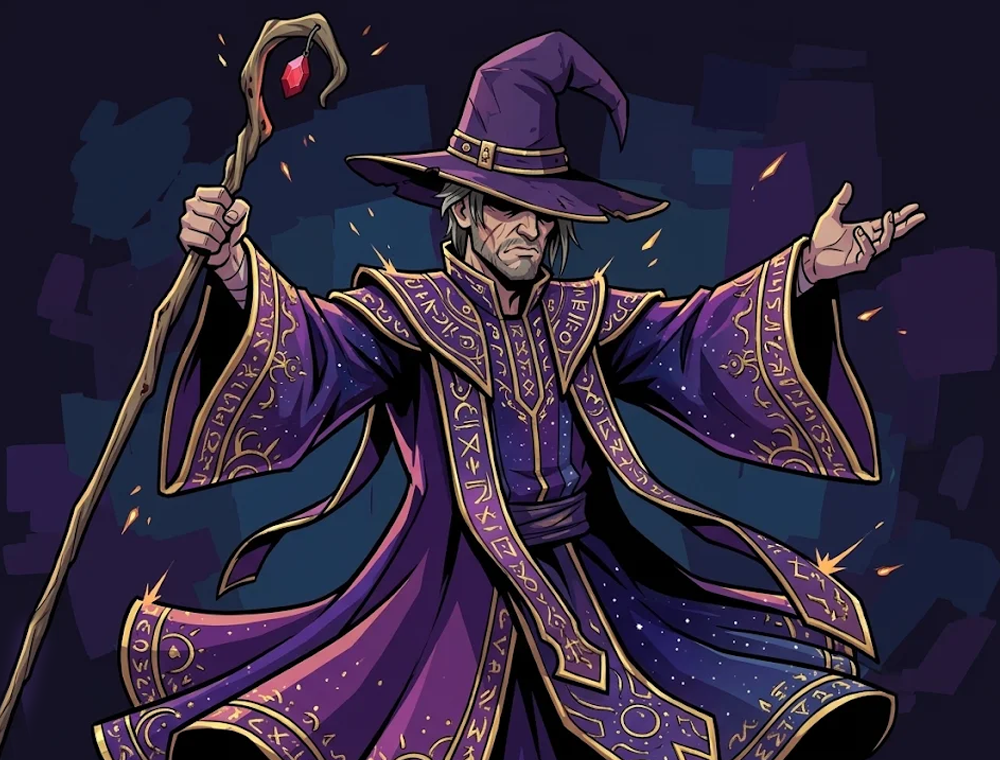
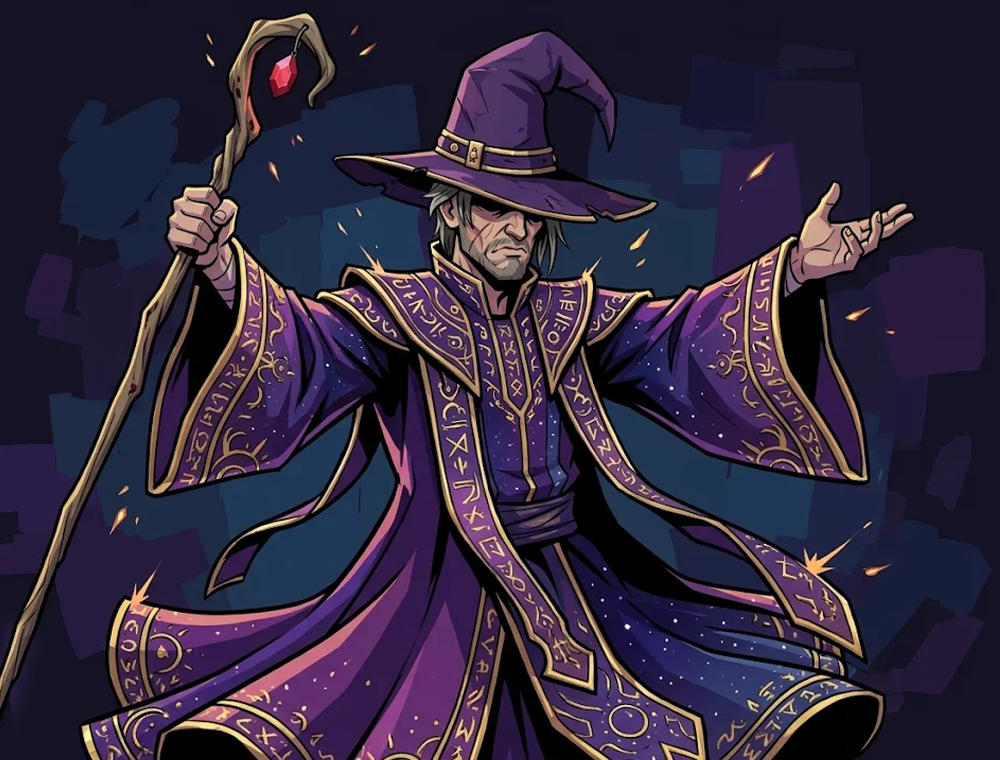
build: v0.5.5（dll 686145B2 / pck 94CCDF4D）
自动提交于 2026-11-15 14:23，共 13 项变更：
   M docs/local/ENG_FIXES.md
   M docs/local/GLOSSARY.md
   M docs/local/JPN_NAMES.md
   M docs/local/PROGRESS.md
   M docs/local/README.md
   M docs/local/ZHT_NAMES.md
   M src/Wizard/images/cards/MagusRobe.png
   M src/Wizard/localization/eng/cards.json
   M src/Wizard/localization/eng/powers.json
   M src/Wizard/localization/jpn/cards.json
   M src/Wizard/localization/jpn/powers.json
   M src/Wizard/localization/zht/cards.json
   M src/Wizard/localization/zht/powers.json

diff --git a/docs/local/PROGRESS.md b/docs/local/PROGRESS.md
@@ -5,8 +5,8 @@
 | 文件 | 状态 | 备注 |
 |---|---|---|
 | characters.json | ✅ 完成 | 15 条 |
-| powers.json | ✅ 完成 | 105 条；35 个能力 |
-| cards.json | ✅ 完成 | 165 条；79 张卡 |
+| powers.json | ✅ 完成 | 111 条；37 个能力 |
+| cards.json | ✅ 完成 | 169 条；81 张卡 |
 | relics.json | ✅ 完成 | 27 条；9 个遗物 |
 | potions.json | ✅ 完成 | 7 条 |
 | monsters.json | ✅ 完成 | 4 条 |
@@ -20,8 +20,8 @@
 | 文件 | 状态 | 备注 |
 |---|---|---|
 | characters.json | ✅ 完成 | 15 条 |
-| powers.json | ✅ 完成 | 105 条；35 个能力 |
-| cards.json | ✅ 完成 | 165 条；79 张卡 |
+| powers.json | ✅ 完成 | 111 条；37 个能力 |
+| cards.json | ✅ 完成 | 169 条；81 张卡 |
 | relics.json | ✅ 完成 | 27 条；9 个遗物 |
 | potions.json | ✅ 完成 | 7 条 |
 | monsters.json | ✅ 完成 | 4 条 |
@@ -37,6 +37,7 @@
 - [x] Aether 版本新增 8 卡 + 2 能力已补 zht/jpn
 - [x] Cauda Pavonis 版本新增 4 卡 + 3 能力已补 zht/jpn
 - [x] Eternal Echo / Mercury 版本新增 2 卡 + 1 能力已补 zht/jpn
+- [x] Temperance / Magus Robe 版本新增 2 卡 + 2 能力已补 zht/jpn
 - [ ] zht / jpn 全量自动 JSON 解析 / 标签逐 key diff（建议在 CI 或本地脚本跑）
 - [ ] zht / jpn 术语一致性抽查
 - [ ] 确认 `Burn` 能力改名「焚燒」后的文本一致性（zht）
@@ -57,3 +58,5 @@
 - Cauda Pavonis 版本新增：`Cauda Pavonis`、`Great Library`、`Quickening`、`Random debuff` 四卡，以及 `Cauda Pavonis` / `Cauda Pavonis+` / `Great Library` 三能力；zht/jpn 已补。
 - Eternal Echo / Mercury 版本新增：`Eternal Echo`、`Mercury` 两卡，以及 `Mercury` 能力；zht/jpn 已补。Swift 采用原版附魔译名：zht **迅捷** / jpn **迅速**。
 - `zhs` 的 `MERCURY_POWER.description` 补上 `[blue]{Swift}[/blue]` 标签，与 eng 的标签数对齐。
+- Temperance / Magus Robe 版本新增：`Temperance`、`Magus Robe` 两卡，以及对应两个能力；zht/jpn 已补。`Magus Robe` zht = 偉大法袍，jpn = マグス・ローブ。
+- `eng` 的 `MAGUS_ROBE` 卡面与 `MAGUS_ROBE_POWER` 描述/smart 补上 `[gold]debuff[/gold]`，与 zhs 的两处 gold 标签对齐。

diff --git a/docs/local/JPN_NAMES.md b/docs/local/JPN_NAMES.md
@@ -2,7 +2,7 @@
 
 > 初稿，供团队复核。原则：招式/专名用片假名，概念/状态用汉字；与原版撞名一律改名。
 
-## 卡牌（79）
+## 卡牌（81）
 
 | 英文 | jpn | 备注 |
 |---|---|---|
@@ -54,6 +54,7 @@
 | Lightning Fall | 落雷 | — |
 | Magical Index | 禁書目録 | — |
 | Magnum Opus | マグヌム・オプス | — |
+| Magus Robe | マグス・ローブ | — |
 | Mana Burst | マナバースト | — |
 | Mana Condense | マナ凝縮 | — |
 | Mana Drain | マナ吸収 | 避让 DRAIN_POWER「力の吸収」 |
@@ -80,13 +81,14 @@
 | Sunset | 落日 | — |
 | Superconduct | 超伝導 | — |
 | Telepathy | テレパシー | — |
+| Temperance | 節制 | — |
 | The Fourth Element | 第四元素 | — |
 | Tidy Up | 片付け | — |
 | Transmogrify | 変質 | 避让 METAMORPHOSIS「羽化」 |
 | Truth Party | 真実の宴 | — |
 | Watch Fire | 見張り火 | 避让 PYRE「かがり火」 |
 
-## 能力（35）
+## 能力（37）
 
 | 英文 | jpn |
 |---|---|
@@ -111,6 +113,7 @@
 | Great Library | 大図書館 |
 | Ice Wall | アイスウォール |
 | Mana Condense | マナ凝縮 |
+| Magus Robe | マグス・ローブ |
 | Mercury | 水銀 |
 | Burn Immunity（怪物） | 燃焼無効 |
 | Omniscient Form | 全知化 |
@@ -122,6 +125,7 @@
 | Spell Power | 魔法威力 |
 | Superconduct | 超伝導 |
 | Telepathy | テレパシー |
+| Temperance | 節制 |
 | Quick Chant | クイックチャント |
 | The Fourth Element | 第四元素 |
 

diff --git a/docs/local/ZHT_NAMES.md b/docs/local/ZHT_NAMES.md
@@ -2,7 +2,7 @@
 
 > 初稿，供团队复核。原则：2–4 字为主；法术牌可用「術」；与原版撞名一律改名。
 
-## 卡牌（79）
+## 卡牌（81）
 
 | 英文 | zht | 备注 |
 |---|---|---|
@@ -54,6 +54,7 @@
 | Lightning Fall | 降雷 | — |
 | Magical Index | 禁書目錄 | — |
 | Magnum Opus | 畢生之作 | — |
+| Magus Robe | 偉大法袍 | — |
 | Mana Burst | 魔力爆發 | — |
 | Mana Condense | 魔力凝聚 | — |
 | Mana Drain | 汲魔 | 避让「能量汲取」 |
@@ -80,13 +81,14 @@
 | Sunset | 落日 | — |
 | Superconduct | 超導 | — |
 | Telepathy | 通靈 | — |
+| Temperance | 節制 | — |
 | The Fourth Element | 第四元素 | — |
 | Tidy Up | 整理 | — |
 | Transmogrify | 幻化 | — |
 | Truth Party | 真理派對 | — |
 | Watch Fire | 觀火 | — |
 
-## 能力（35）
+## 能力（37）
 
 | 英文 | zht |
 |---|---|
@@ -111,6 +113,7 @@
 | Great Library | 大圖書館 |
 | Ice Wall | 冰牆 |
 | Mana Condense | 魔力凝聚 |
+| Magus Robe | 偉大法袍 |
 | Mercury | 水銀 |
 | Burn Immunity（怪物） | 焚燒免疫 |
 | Omniscient Form | 全知形態 |
@@ -122,6 +125,7 @@
 | Spell Power | 魔法威力 |
 | Superconduct | 超導 |
 | Telepathy | 通靈 |
+| Temperance | 節制 |
 | Quick Chant | 快速詠唱 |
 | The Fourth Element | 第四元素 |
 

diff --git a/docs/local/ENG_FIXES.md b/docs/local/ENG_FIXES.md
@@ -37,6 +37,13 @@
 - 改：`[blue]Aether damage[/blue]` → `[gold]Aether damage[/gold]`
 - 理由：沿用 2026-11-08 的 Aether 高亮规则；新文案重新引入了 `[blue]`，eng/zhs 一并改回 `[gold]`，zht/jpn 直接使用 `[gold]`。
 
+### 6. `WIZARD-MAGUS_ROBE.description` / `WIZARD-MAGUS_ROBE_POWER`
+
+- 原：`Whenever you apply a debuff to an enemy...`
+- 改：`Whenever you apply a [gold]debuff[/gold] to an enemy...`
+- 范围：卡面 description、能力 description、能力 smartDescription。
+- 理由：`zhs` 用两处 `[gold]`（负面效果 + 格挡）；eng 只高亮了 Block，补上 debuff 标签以对齐。
+
 ## 待观察（暂不改）
 
 - `WIZARD-AMNESIA.description`：`eng` 保留 `{AmnesiaPower:diff()}`，`zhs` 省略。两者语义都通；暂不改 `eng`，zht 保留变量。

diff --git a/docs/local/README.md b/docs/local/README.md
@@ -7,8 +7,8 @@
 
 | 语言 | 状态 | 说明 |
 |---|---|---|
-| zht（繁體中文） | **首轮完成** | 10 个文件已落盘；已补 Aether、Cauda Pavonis、Eternal Echo / Mercury 新内容，待全量校验 |
-| jpn（日本語） | **首轮完成** | 10 个文件已落盘；已补 Aether、Cauda Pavonis、Eternal Echo / Mercury 新内容，待全量校验 |
+| zht（繁體中文） | **首轮完成** | 10 个文件已落盘；已补 Aether、Cauda Pavonis、Eternal Echo / Mercury、Temperance / Magus Robe 新内容，待全量校验 |
+| jpn（日本語） | **首轮完成** | 10 个文件已落盘；已补 Aether、Cauda Pavonis、Eternal Echo / Mercury、Temperance / Magus Robe 新内容，待全量校验 |
 
 ## 权威顺序（重要）
 

diff --git a/docs/local/GLOSSARY.md b/docs/local/GLOSSARY.md
@@ -97,6 +97,8 @@
 | Enchant | 附魔 | **附魔** | **エンチャント** | 原版关键词 |
 | Swift | 迅速 | **迅捷** | **迅速** | 原版附魔；zht 迅捷 / jpn 迅速 |
 | Mercury | 水银 | 水銀 | 水銀 | — |
+| Temperance | 节制 | 節制 | 節制 | — |
+| Magus Robe | 伟大法袍 | 偉大法袍 | マグス・ローブ | — |
 
 ## 四、命名冲突与处理
 
